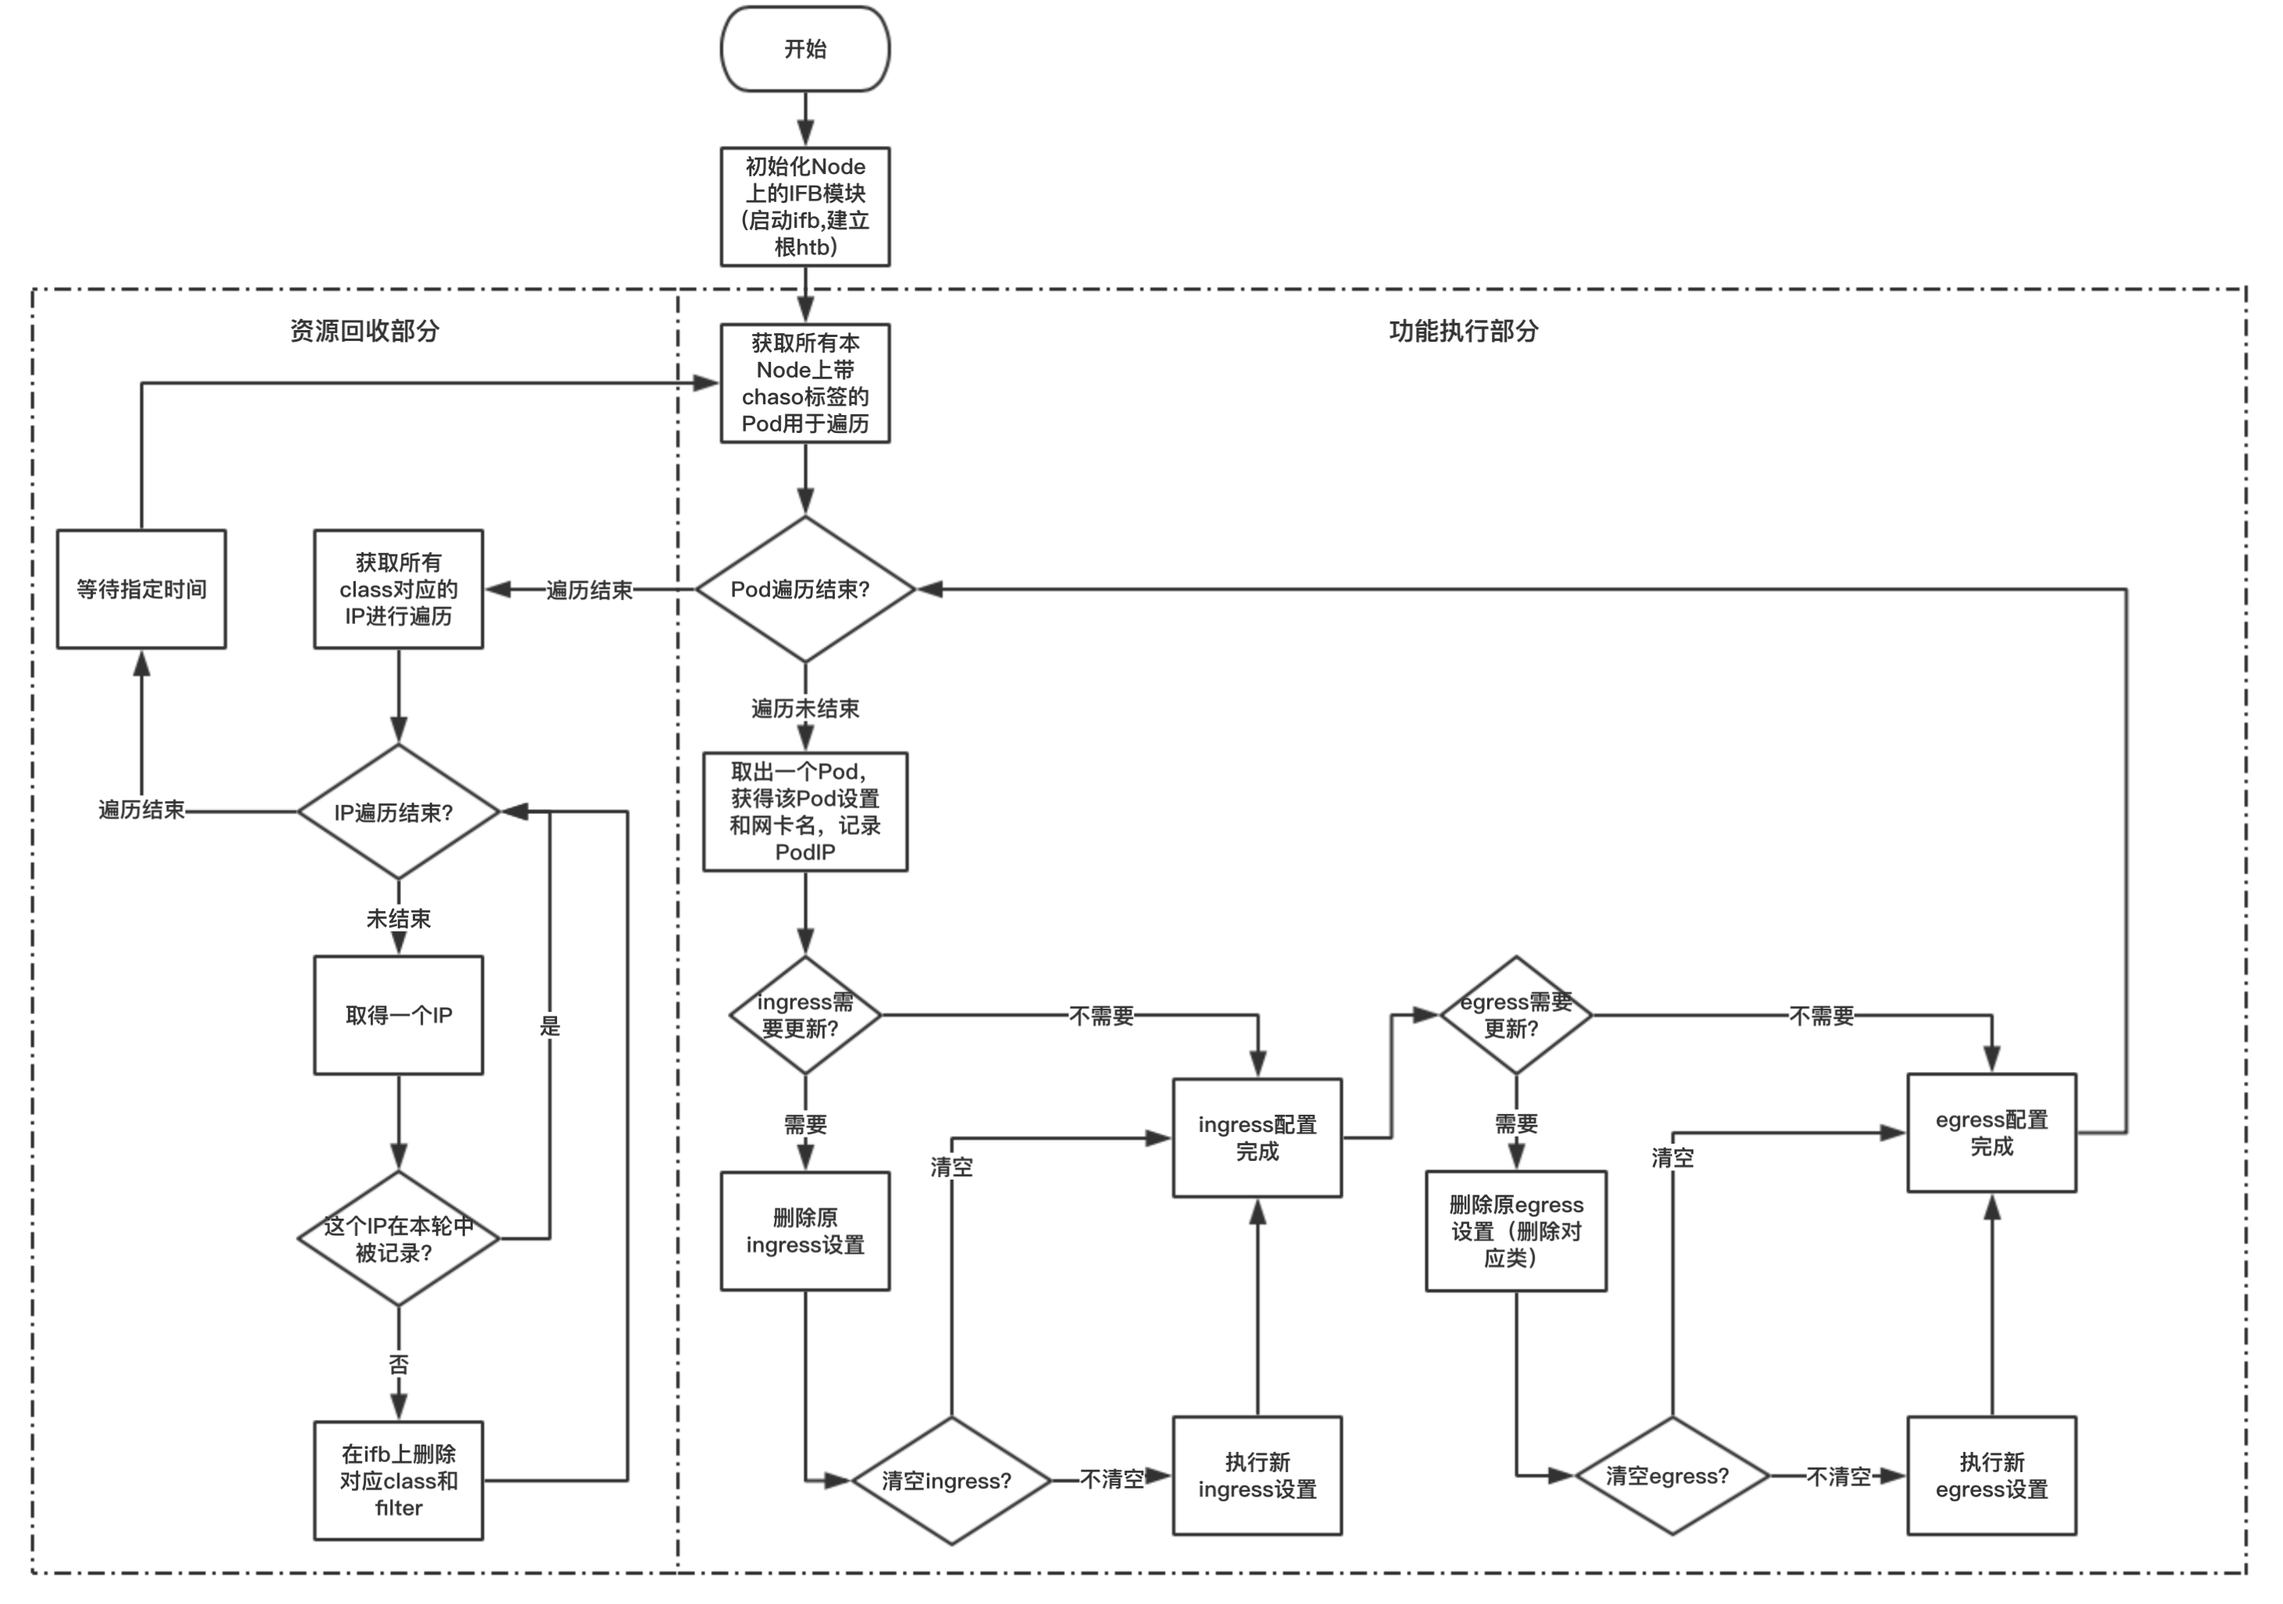
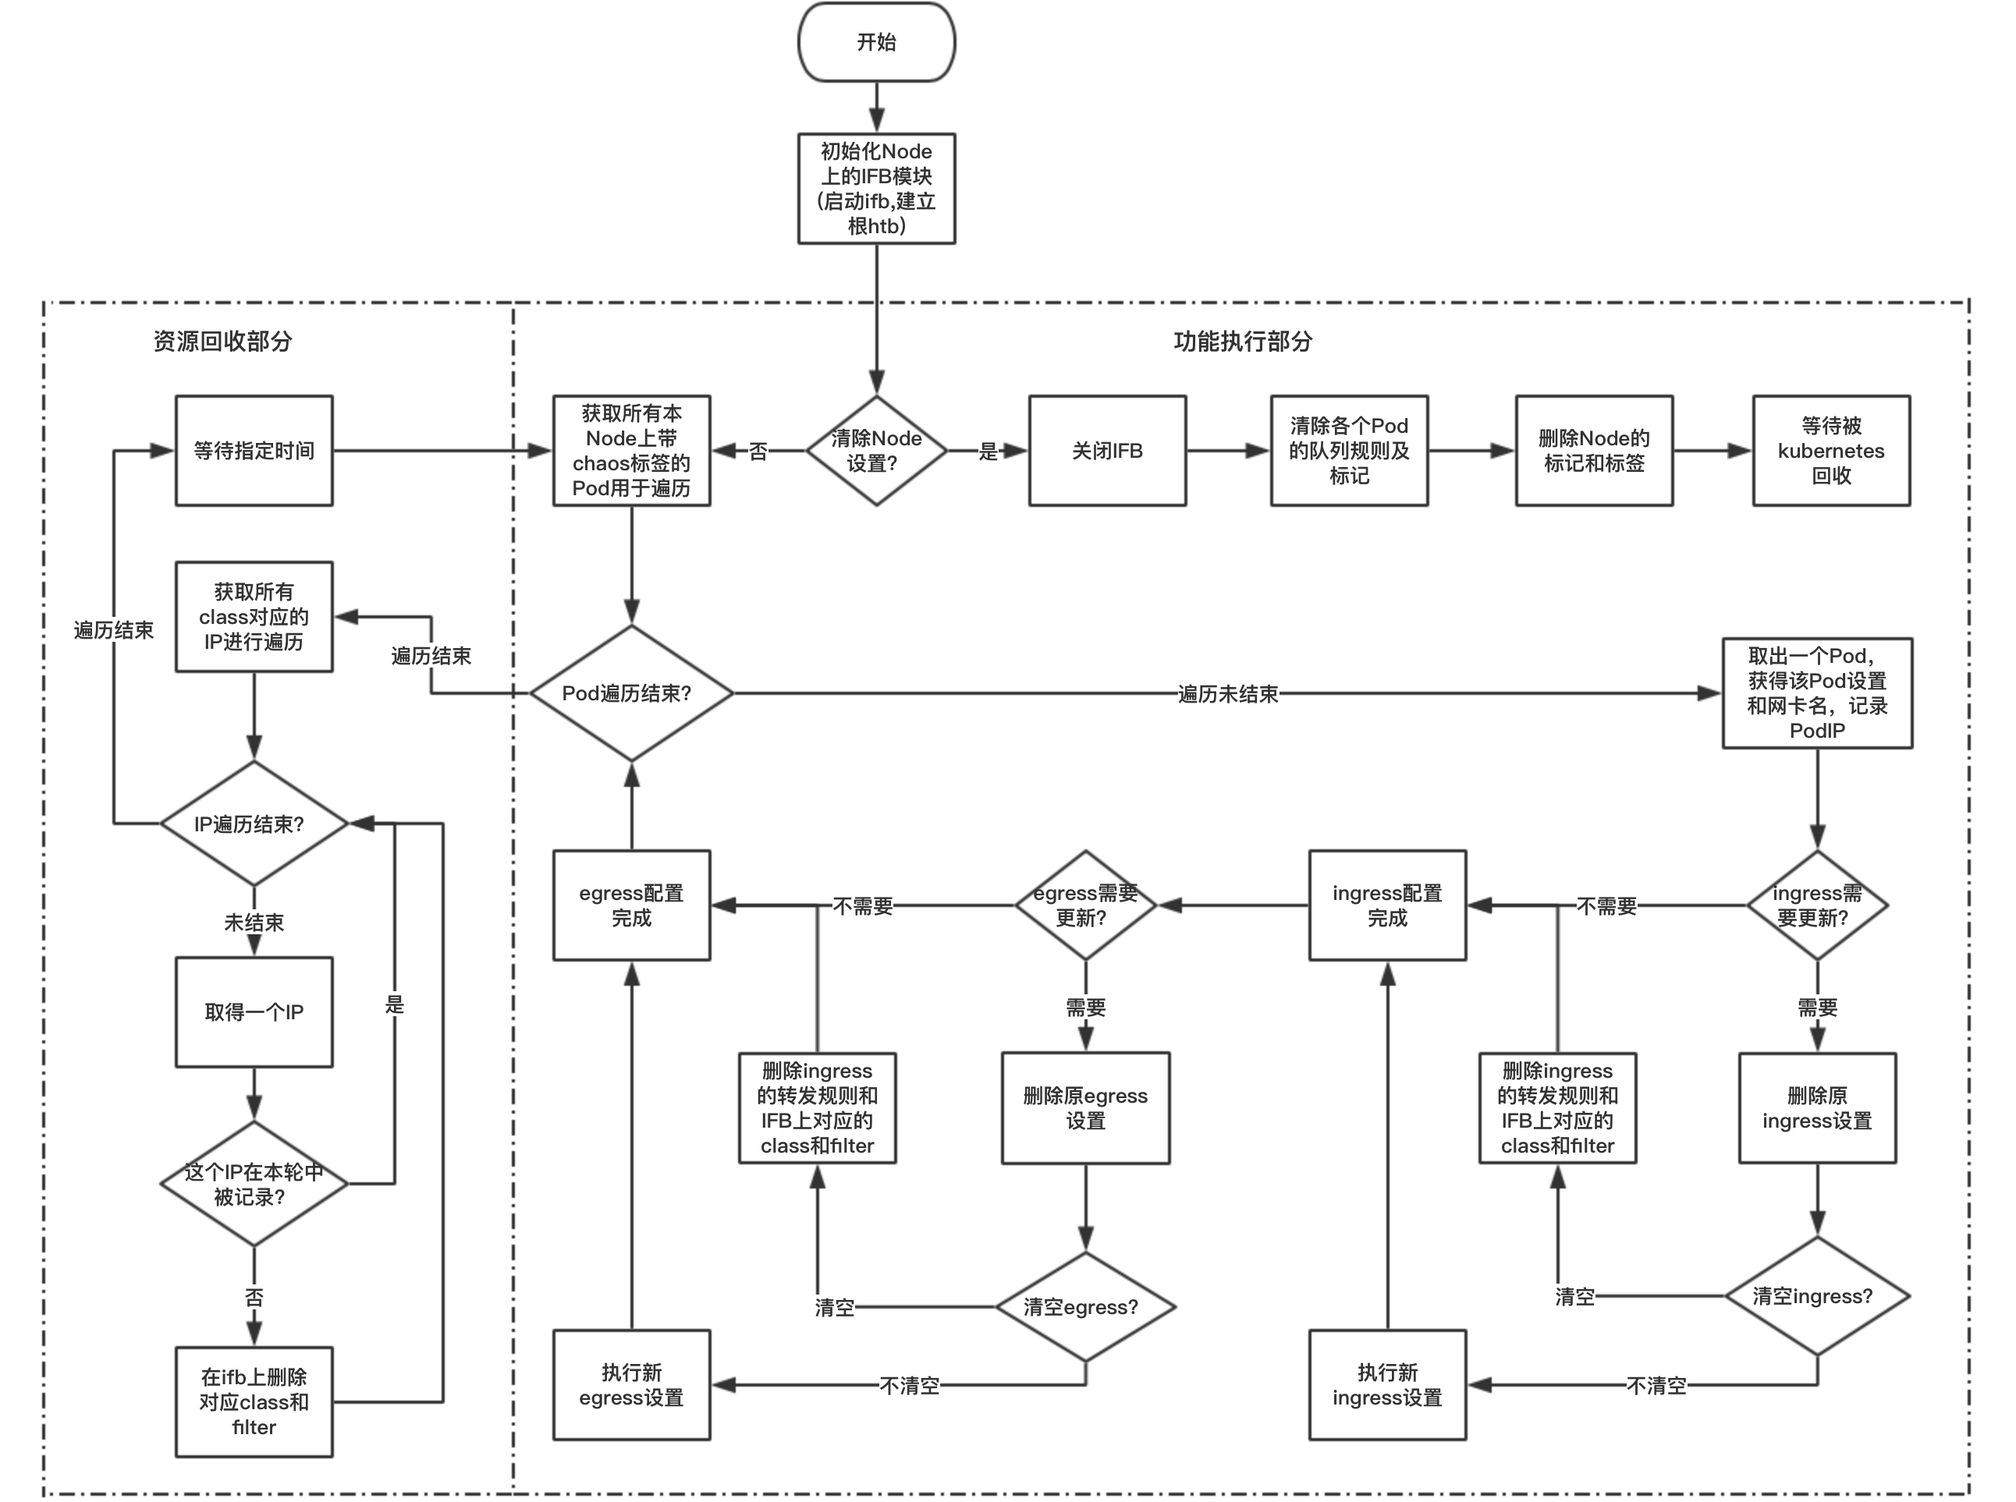
update pod clear process

diff --git a/pkg/flow/linux.go b/pkg/flow/linux.go
@@ -302,22 +302,27 @@ func (t *tcShaper) ClearEgressInterface() error {
 	return nil
 }
 
-func ClearMirroring(iface string) error {
+func ClearIngressMirroring(iface string) error {
 	e :=exec.New()
 
 	_,err:=e.Command("tc","qdisc","del","dev",iface,"root").CombinedOutput()
 	if err!=nil{
-		return errors.New(fmt.Sprintf("fail to delete %s's root qdisc",iface))
-	}
-
-	_,err=e.Command("tc","qdisc","del","dev",iface,"ingress").CombinedOutput()
-	if err!=nil{
-		return errors.New(fmt.Sprintf("fail to delete %s's ingress qdisc",iface))
+		return errors.New(fmt.Sprintf("fail to delete %s's ingress mirroring",iface))
 	}
 
 	return nil
 }
 
+func ClearEgressMirroring(iface string) error {
+	e :=exec.New()
+
+	_,err:=e.Command("tc","qdisc","del","dev",iface,"ingress").CombinedOutput()
+	if err!=nil{
+		return errors.New(fmt.Sprintf("fail to delete %s's egress mirroring",iface))
+	}
+
+	return nil
+}
 func (t *tcShaper) ReconcileIngressMirroring(cidr string) error {
 	e := exec.New()
 
@@ -677,7 +682,7 @@ func (t *tcShaper) ExecTcChaos(isIngress bool, info ChaosInfo) error {
 }
 
 // Remove a bandwidth limit for a particular CIDR on a particular network interface
-func reset(cidr, ifb string) error {
+func Reset(cidr, ifb string) error {
 	e := exec.New()
 	class, handle, found, err := findCIDRClass(cidr, ifb)
 	if err != nil {
@@ -745,7 +750,7 @@ func DeleteExtraChaos(egressPodsCIDRs, ingressPodsCIDRs []string, firstIFB, seco
 	}
 	for _, ifb0CIDR := range ifb0CIDRs {
 		if !egressCIDRsets.Has(ifb0CIDR) {
-			if err := reset(ifb0CIDR, First); err != nil {
+			if err := Reset(ifb0CIDR, First); err != nil {
 				return err
 			}
 		}
@@ -758,7 +763,7 @@ func DeleteExtraChaos(egressPodsCIDRs, ingressPodsCIDRs []string, firstIFB, seco
 	}
 	for _, ifb1CIDR := range ifb1CIDRs {
 		if !ingressCIDRsets.Has(ifb1CIDR) {
-			if err := reset(ifb1CIDR, Second); err != nil {
+			if err := Reset(ifb1CIDR, Second); err != nil {
 				return err
 			}
 		}

diff --git a/kube-chaos.go b/kube-chaos.go
@@ -108,9 +108,13 @@ func main() {
 				// Get network card name
 				workload := calico.GetWorkload(pod.Namespace, pod.Spec.NodeName, pod.Name, endpoint)
 				// Clear network card settings
-				err=flow.ClearMirroring(workload.Spec.InterfaceName)
+				err=flow.ClearIngressMirroring(workload.Spec.InterfaceName)
 				if err!=nil{
-					glog.Errorf("Fail to clear pod %s's settings: %s",pod.Name,err)
+					glog.Errorf("Fail to clear pod %s's ingress settings: %s",pod.Name,err)
+				}
+				err=flow.ClearEgressMirroring(workload.Spec.InterfaceName)
+				if err!=nil{
+					glog.Errorf("Fail to clear pod %s's egress settings: %s",pod.Name,err)
 				}
 				// Delete Pod flag
 				pod.SetAnnotations(flow.SetPodChaosUpdated(false, false, true, true, pod.Annotations))
@@ -185,6 +189,11 @@ func main() {
 
 					// Execute tc command in ingress
 					shaper.ExecTcChaos(true, ingressChaosInfo)
+				} else {
+					// Clear ingress mirroring
+					flow.ClearIngressMirroring(workload.Spec.InterfaceName)
+					// Clear ingress ifb class
+					flow.Reset(cidr,fmt.Sprintf("ifb%d",firstIFB))
 				}
 			}
 
@@ -209,6 +218,11 @@ func main() {
 
 					// Execute tc command in egress
 					shaper.ExecTcChaos(false, egressChaosInfo)
+				} else {
+					// Clear egress mirroring
+					flow.ClearEgressMirroring(workload.Spec.InterfaceName)
+					// Clear egress ifb class
+					flow.Reset(cidr,fmt.Sprintf("ifb%d",secondIFB))
 				}
 
 			}
